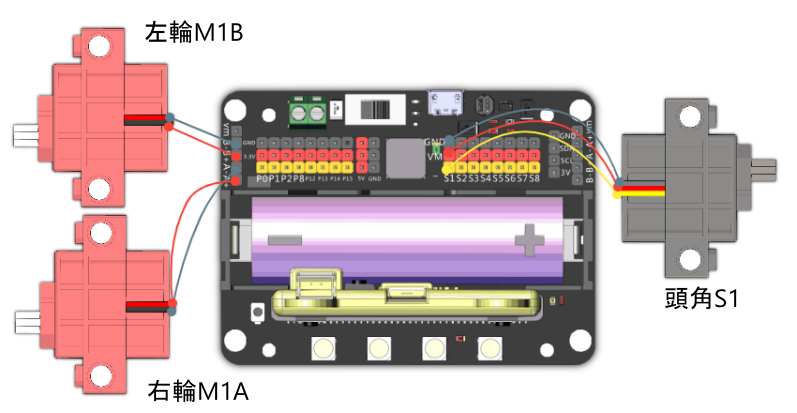
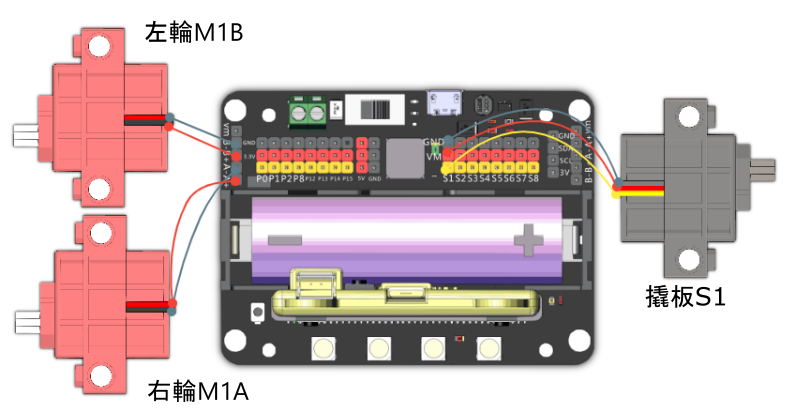
12 in 1 update

diff --git a/Kits/12in1/info/instructions/rhino.md b/Kits/12in1/info/instructions/rhino.md
@@ -1,18 +1,20 @@
-# 雷暴犀牛
+# 相撲小子
 
-利用車子上的硬角進行比拼，您用角可以攻擊對手，嘗試令它倒下；或者進入防禦勢態，抵擋對方攻擊。你亦可以利用你堅硬的角，將對手推出格鬥場。
+用車子進行比拼，您可以攻擊對手，嘗試令它倒下；或者進入防禦勢態，抵擋對方攻擊。你亦可以利用你強壯的身軀，將對手推出格鬥場。
 
 ![](images/rhino.png)
 
 ## 組裝說明書和參考程式
 
-說明書資源包： [資源包下載地址](https://bit.ly/Powerbrick10in1BuildingGuide)
+說明書資源包： [資源包下載地址](https://bit.ly/12In1SumobotBuildingInstruction)
 
-[參考程式: 雷暴犀牛-JoyFrog搖控](https://makecode.microbit.org/_JgYW9KUaDWbw)
+參考程式: 
 
-[參考程式: 雷暴犀牛-microbit搖控](https://makecode.microbit.org/_ciVa2i45qDFD)
+[相撲小子-JoyFrog搖控](https://makecode.microbit.org/_JgYW9KUaDWbw)
 
-[參考程式: 雷暴犀牛-主體](https://makecode.microbit.org/_E7Did0H041K0)
+[相撲小子-microbit搖控](https://makecode.microbit.org/_ciVa2i45qDFD)
+
+[相撲小子-主體](https://makecode.microbit.org/_E7Did0H041K0)
 
 ## 參考接線
 

diff --git a/functional_module/AI Cam/serial/command.md b/functional_module/AI Cam/serial/command.md
@@ -145,3 +145,36 @@
                 display.scroll(ret_list[2])
                 display.scroll('R:')
                 display.scroll(ret_list[3])
+                
+### 矩形辨認
+
+指令：K11 threshold
+
+作用：辨認矩形，threshold代表臨界值，一般推薦6000(臨界值越高越難辨認，誤差會更少)
+
+返回：X座標，Y座標，長，闊
+
+    from microbit import *
+
+    ret_list=[]
+    uart.init(baudrate=115200, tx=pin1, rx=pin2)
+    uart.write('\n\n')
+    sleep(1000)
+
+    while True:
+        if button_a.is_pressed():
+            uart.write('K11 6000\r\n')
+            sleep(1000)
+        if uart.any():
+            ret = str(uart.readline(), 'UTF-8')
+            ret = ret.strip()
+            ret_list = ret.split(' ')
+            if len(ret_list)>1:
+                display.scroll('X:')
+                display.scroll(ret_list[1])
+                display.scroll('Y:')
+                display.scroll(ret_list[2])
+                display.scroll('W:')
+                display.scroll(ret_list[3])
+                display.scroll('H:')
+                display.scroll(ret_list[4])

diff --git a/Kits/12in1/info/instructions/catch.md b/Kits/12in1/info/instructions/catch.md
@@ -6,15 +6,17 @@
 
 ## 組裝說明書和參考程式
 
-說明書資源包： [資源包下載地址](https://bit.ly/Powerbrick10in1BuildingGuide)
+說明書資源包： [資源包下載地址](hhttps://bit.ly/12In1SumobotBuildingInstruction)
 
-[參考程式: 機靈捕手-JoyFrog搖控](https://makecode.microbit.org/_EAdieF1Y8Aqm)
+參考程式: 
 
-[參考程式: 機靈捕手-JoyFrog版主體](https://makecode.microbit.org/_AfqbPTEdMEc8)
+[機靈捕手-JoyFrog搖控](https://makecode.microbit.org/_EAdieF1Y8Aqm)
 
-[參考程式: 機靈捕手-microbit搖控](https://makecode.microbit.org/_25oLsUgq19PK)
+[機靈捕手-JoyFrog版主體](https://makecode.microbit.org/_AfqbPTEdMEc8)
 
-[參考程式: 機靈捕手-microbit版主體](https://makecode.microbit.org/_gLmJRpcdP7Ua)
+[機靈捕手-microbit搖控](https://makecode.microbit.org/_25oLsUgq19PK)
+
+[機靈捕手-microbit版主體](https://makecode.microbit.org/_gLmJRpcdP7Ua)
 
 ## 參考接線
 

diff --git a/Kits/12in1/info/instructions/transport.md b/Kits/12in1/info/instructions/transport.md
@@ -1,4 +1,4 @@
-# 瘋狂掠奪者
+# 搬運小子
 
 利用它敏捷的身手，嘗試將戰場上的物資搶先帶回基地，防止對方得逞。
 
@@ -6,13 +6,15 @@
 
 ## 組裝說明書和參考程式
 
-說明書資源包： [資源包下載地址](https://bit.ly/Powerbrick10in1BuildingGuide)
+說明書資源包： [資源包下載地址](https://bit.ly/12In1SumobotBuildingInstruction)
 
-[參考程式: 瘋狂掠奪者-JoyFrog搖控](https://makecode.microbit.org/_bMTCUsX7TgeX)
+參考程式: 
 
-[參考程式: 瘋狂掠奪者-microbit搖控](https://makecode.microbit.org/_cMpDja8ie5Cx)
+[搬運小子-JoyFrog搖控](https://makecode.microbit.org/_bMTCUsX7TgeX)
 
-[參考程式: 瘋狂掠奪者-主體](https://makecode.microbit.org/_RuWcxCRk6CmJ)
+[搬運小子-microbit搖控](https://makecode.microbit.org/_cMpDja8ie5Cx)
+
+[搬運小子-主體](https://makecode.microbit.org/_RuWcxCRk6CmJ)
 
 ## 參考接線
 

diff --git a/Kits/12in1/info/instructions/flag.md b/Kits/12in1/info/instructions/flag.md
@@ -1,4 +1,4 @@
-# 奪旗校尉
+# 奪旗小子
 
 利用車子上的把手，嘗試將對手左右兩旁的旗幟巧妙地奪下來。
 
@@ -6,13 +6,15 @@
 
 ## 組裝說明書和參考程式
 
-說明書資源包： [資源包下載地址](https://bit.ly/Powerbrick10in1BuildingGuide)
+說明書資源包： [資源包下載地址](https://bit.ly/12In1SumobotBuildingInstruction)
 
-[參考程式: 奪旗校尉-joyfrog搖控](https://makecode.microbit.org/_MVPAdxc4JfmK)
+參考程式: 
 
-[參考程式: 奪旗校尉-microbit搖控](https://makecode.microbit.org/_EJAAk17c6cxi)
+[奪旗小子-joyfrog搖控](https://makecode.microbit.org/_MVPAdxc4JfmK)
 
-[參考程式: 奪旗校尉-主體](https://makecode.microbit.org/_CMPiDu1eWK6U)
+[奪旗小子-microbit搖控](https://makecode.microbit.org/_EJAAk17c6cxi)
+
+[奪旗小子-主體](https://makecode.microbit.org/_CMPiDu1eWK6U)
 
 ## 參考接線
 

diff --git a/Kits/12in1/info/instructions/sumo.md b/Kits/12in1/info/instructions/sumo.md
@@ -6,13 +6,13 @@
 
 ## 組裝說明書和參考程式
 
-說明書資源包： [資源包下載地址](https://bit.ly/Powerbrick10in1BuildingGuide)
+說明書資源包： [資源包下載地址](https://bit.ly/12In1SumobotBuildingInstruction)
 
-[參考程式: 相撲選手-joyfrog搖控](https://makecode.microbit.org/_iaaKRmgTP3X7)
+參考程式: [相撲選手-joyfrog搖控](https://makecode.microbit.org/_iaaKRmgTP3X7)
 
-[參考程式: 相撲選手-microbit搖控](https://makecode.microbit.org/_9fuWMzb4y3bf)
+參考程式: [相撲選手-microbit搖控](https://makecode.microbit.org/_9fuWMzb4y3bf)
 
-[參考程式: 相撲選手-主體](https://makecode.microbit.org/_Jw0F9o94Vb5p)
+參考程式: [相撲選手-主體](https://makecode.microbit.org/_Jw0F9o94Vb5p)
 
 ## 參考接線
 

diff --git a/Kits/12in1/info/instructions/block.md b/Kits/12in1/info/instructions/block.md
@@ -6,13 +6,15 @@
 
 ## 組裝說明書和參考程式
 
-說明書資源包： [資源包下載地址](https://bit.ly/Powerbrick10in1BuildingGuide)
+說明書資源包： [資源包下載地址](https://bit.ly/12In1SumobotBuildingInstruction)
 
-[參考程式: 路障剋星-JoyFrog搖控](https://makecode.microbit.org/_FDF4x99xf8UH)
+參考程式: 
 
-[參考程式: 路障剋星-microbit搖控](https://makecode.microbit.org/_gwoa09KhTd1q)
+[路障剋星-JoyFrog搖控](https://makecode.microbit.org/_FDF4x99xf8UH)
 
-[參考程式: 路障剋星-主體](https://makecode.microbit.org/_MKqcWU0y6WHC)
+[路障剋星-microbit搖控](https://makecode.microbit.org/_gwoa09KhTd1q)
+
+[路障剋星-主體](https://makecode.microbit.org/_MKqcWU0y6WHC)
 
 ## 參考接線
 

diff --git a/Kits/12in1/info/instructions/dino.md b/Kits/12in1/info/instructions/dino.md
@@ -6,13 +6,15 @@
 
 ## 組裝說明書和參考程式
 
-說明書資源包： [資源包下載地址](https://bit.ly/Powerbrick10in1BuildingGuide)
+說明書資源包： [資源包下載地址](https://bit.ly/12In1SumobotBuildingInstruction)
 
-[參考程式: 狂暴角龍-joyfrog搖控](https://makecode.microbit.org/_dhce3PKms5Fk)
+參考程式: 
 
-[參考程式: 狂暴角龍-microbit搖控](https://makecode.microbit.org/_J8w7WriE9D4D)
+[狂暴角龍-joyfrog搖控](https://makecode.microbit.org/_dhce3PKms5Fk)
 
-[參考程式: 狂暴角龍-主體](https://makecode.microbit.org/_2ixfyk1TAHEh)
+[狂暴角龍-microbit搖控](https://makecode.microbit.org/_J8w7WriE9D4D)
+
+[狂暴角龍-主體](https://makecode.microbit.org/_2ixfyk1TAHEh)
 
 ## 參考接線
 

diff --git a/Kits/12in1/info/instructions/mantis.md b/Kits/12in1/info/instructions/mantis.md
@@ -6,13 +6,15 @@
 
 ## 組裝說明書和參考程式
 
-說明書資源包： [資源包下載地址](https://bit.ly/Powerbrick10in1BuildingGuide)
+說明書資源包： [資源包下載地址](https://bit.ly/12In1SumobotBuildingInstruction)
 
-[參考程式: 巨拳螳螂-joyfrog搖控](https://makecode.microbit.org/_awFKYpec2gyz)
+參考程式: 
 
-[參考程式: 巨拳螳螂-microbit搖控](https://makecode.microbit.org/_KjRD0FD1KUrW)
+[巨拳螳螂-joyfrog搖控](https://makecode.microbit.org/_awFKYpec2gyz)
 
-[參考程式: 巨拳螳螂-主體](https://makecode.microbit.org/_CJE1aggHy2uJ)
+[巨拳螳螂-microbit搖控](https://makecode.microbit.org/_KjRD0FD1KUrW)
+
+[巨拳螳螂-主體](https://makecode.microbit.org/_CJE1aggHy2uJ)
 
 ## 參考接線
 

diff --git a/Kits/12in1/info/instructions/speed.md b/Kits/12in1/info/instructions/speed.md
@@ -6,13 +6,15 @@
 
 ## 組裝說明書和參考程式
 
-說明書資源包： [資源包下載地址](https://bit.ly/Powerbrick10in1BuildingGuide)
+說明書資源包： [資源包下載地址](https://bit.ly/12In1SumobotBuildingInstruction)
 
-[參考程式: 風馳電掣-joyfrog搖控](https://makecode.microbit.org/_H0udau4FrYqW)
+參考程式: 
 
-[參考程式: 風馳電掣-microbit搖控](https://makecode.microbit.org/_XcR2kH8iqMmY)
+[風馳電掣-joyfrog搖控](https://makecode.microbit.org/_H0udau4FrYqW)
 
-[參考程式: 風馳電掣-主體](https://makecode.microbit.org/_WjWYEHPJJW4c)
+[風馳電掣-microbit搖控](https://makecode.microbit.org/_XcR2kH8iqMmY)
+
+[風馳電掣-主體](https://makecode.microbit.org/_WjWYEHPJJW4c)
 
 ## 參考接線
 

diff --git a/Kits/12in1/info/instructions/tissue.md b/Kits/12in1/info/instructions/tissue.md
@@ -6,9 +6,11 @@
 
 ## 組裝說明書和參考程式
 
-說明書資源包： [資源包下載地址](https://bit.ly/Powerbrick10in1BuildingGuide)
+說明書資源包： [資源包下載地址](https://bit.ly/12In1SumobotBuildingInstruction)
 
-[參考程式: 智能紙巾機-主體](https://makecode.microbit.org/_EFYdx3ektJcx)
+參考程式: 
+
+[智能紙巾機-主體](https://makecode.microbit.org/_EFYdx3ektJcx)
 
 ## 參考接線
 

diff --git a/Kits/12in1/info/instructions/turret.md b/Kits/12in1/info/instructions/turret.md
@@ -6,9 +6,11 @@
 
 ## 組裝說明書和參考程式
 
-說明書資源包： [資源包下載地址](https://bit.ly/Powerbrick10in1BuildingGuide)
+說明書資源包： [資源包下載地址](https://bit.ly/12In1SumobotBuildingInstruction)
 
-[參考程式: 戰爭炮台-主體](https://makecode.microbit.org/_1HuUtRi7rbat)
+參考程式: 
+
+[戰爭炮台-主體](https://makecode.microbit.org/_1HuUtRi7rbat)
 
 ## 參考接線
 
